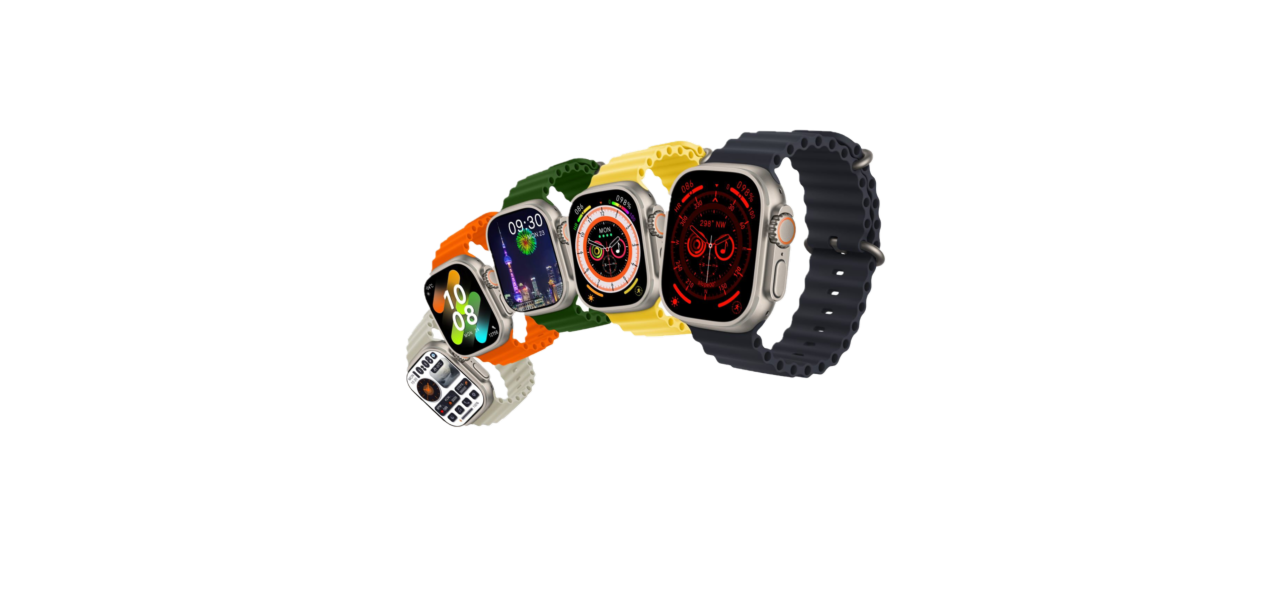
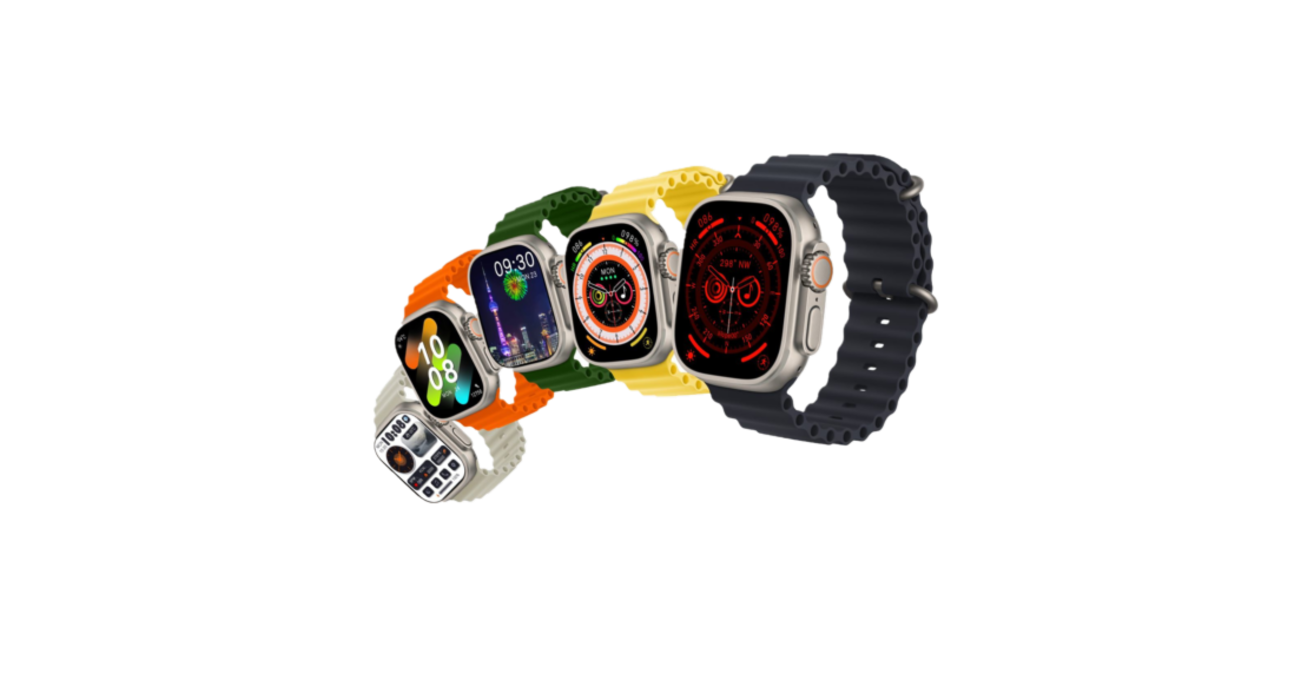
modificando cuerpo2.

Changed region(s): [[0.2808, 0.2121, 0.7176, 0.7273]]

diff --git a/style.css b/style.css
@@ -176,29 +176,32 @@ body::-webkit-scrollbar{
                 left: 3%;
                 margin-top: 0%} 
             .imagenfondo{
-                width: 249%;
-                position: absolute;
-                top: 6%;
-                left: -75%;
-                margin: 0%;
+                width: 100%;
+                position: fixed;
+                top: 4%;
+                left:  0%;
                 opacity: 0.4;}  
+            .imawatch{
+                width: 217%;
+                left: -61%;
+                opacity: 1.4;}    
             .botones{
                 width: 100%;
-                height: 24%;
+                height: 29%;
                 position: fixed;
-                bottom: 60%;
+                bottom: 39%;
                 left: 0%;}
             .contacto{
-                width: 45%;
-                height: 25%;
+                width: 85%;
+                height: 30%;
                 position: absolute;
                 left: 6%;}
             .compra{
-                width: 45%;
-                height: 25%;
+                width: 85%;
+                height: 30%;
                 position: absolute;
                 left: 6%;
-                top: 43%;}         
+                top: 50%;}         
             .imatienda, .imacontacto{
                 width: 56px;
                 height: 50px;
@@ -212,9 +215,9 @@ body::-webkit-scrollbar{
                 bottom: 40% ;
                 color: #ffff}    
             .imairpod{
-              width: 127%;
-              top:  53%;
-              left: -11%;
+              width: 100%;
+              top:  55%;
+              left: 2%;
               opacity: 0.6;}
             .colaboradores{
                 width: 80%;

diff --git a/index.html b/index.html
@@ -16,10 +16,11 @@
           <h1><img src="imagevolga/volgap.png" alt="logo Volga Tecnologia" class="imamobula"></h1>
         </section>
         
-        <div class="imagenfondo"> <!--imagen de fondo-->
+        <section class="imagenfondo"> <!--imagen de fondo-->
             <!--<h1><img src="imagevolga/imagenfondo.png" alt="imagen de fondo" class="imafondo"></h1>-->
             <h1><img src="imagevolga/watch.png" alt="imagen de fondo2" class="imawatch"></h1>
-        </div>
+        </section>
+        
         <div class="botones"> 
           <a href="https://www.facebook.com/profile.php?id=61558489492701" target="_blank"> <div class="contacto"><img src="imagevolga/iconotienda.png"alt="icon" class="imatienda"><p class="titulo1">Visíta nuestra página</p></div></a>
           <a href="https://wa.me/573003337933" target="_blank"> <div class="compra"><img src="imagevolga/contacto.png"alt="icon" class="imacontacto"><p class="titulo2">Contáctenos por Whatsapp</p></div></a>       
